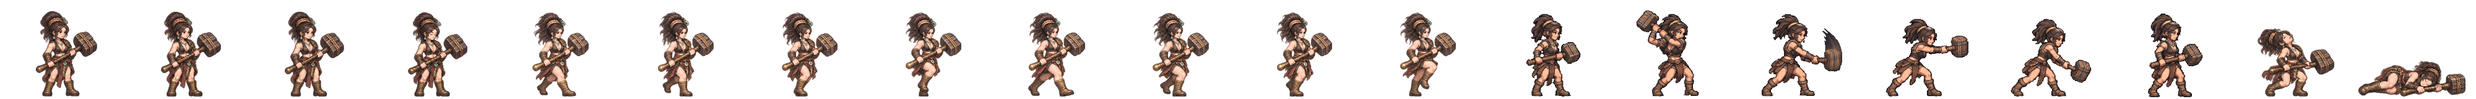
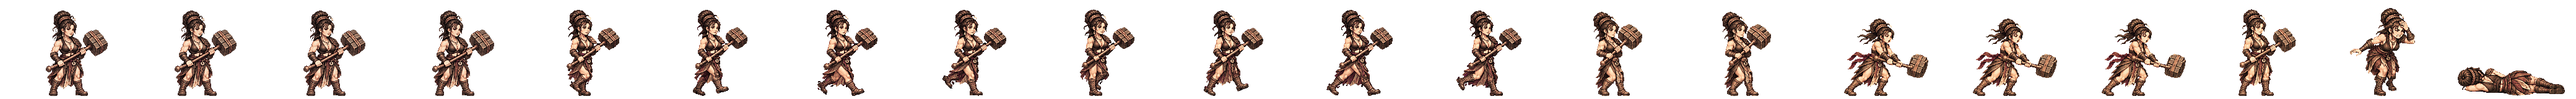
쇠비 전투 띠를 새 방식으로: 서기·걷기·큰 쇠망치 내려찍기 여덟 칸·머리 장식 고치기·쓰러짐·맞음 (Codex 그림 · 눈 검수와 독립 검수) · 옛 2배 그림 연결 지움
Claude-Session: https://claude.ai/code/session_01TRiuN7s6aDfSnaHxrkctmU

Changed region(s): [[0.0, 0.0938, 1.0, 0.9688]]

diff --git a/src/realm/data/spritePx.ts b/src/realm/data/spritePx.ts
@@ -1,3 +1,3 @@
 /** public/realm/anim-px/manifest.json 의 사본 — tools/sprite-normalize.mjs 가 만든다 (손으로 고치지 말 것). 칸 [가로, 세로] · feet = 발 줄(칸 위에서 y) · bodyPx = 서 있는 몸 키 */
 import { expandManifest } from './sprite-manifest.ts'
-export const SPRITE_PX: Readonly<Record<string, { readonly cell: readonly [number, number]; readonly feet: number; readonly bodyPx: number; readonly kind: 'general' | 'soldier' | 'folk' | 'crowd'; readonly cells: number }>> = expandManifest<{ readonly cell: readonly [number, number]; readonly feet: number; readonly bodyPx: number; readonly kind: 'general' | 'soldier' | 'folk' | 'crowd'; readonly cells: number }>([{"cell":[166,128],"feet":126,"bodyPx":124,"kind":"soldier","cells":20},{"cell":[116,128],"feet":126,"bodyPx":117,"kind":"soldier","cells":20},{"cell":[127,128],"feet":126,"bodyPx":116,"kind":"soldier","cells":20},{"cell":[269,128],"feet":126,"bodyPx":126,"kind":"soldier","cells":20},{"cell":[503,128],"feet":126,"bodyPx":127,"kind":"soldier","cells":20},{"cell":[614,128],"feet":126,"bodyPx":126,"kind":"soldier","cells":20},{"cell":[200,160],"feet":156,"bodyPx":138,"kind":"general","cells":20},{"cell":[208,160],"feet":155,"bodyPx":138,"kind":"general","cells":20},{"cell":[208,160],"feet":154,"bodyPx":138,"kind":"general","cells":20},{"cell":[304,160],"feet":155,"bodyPx":135,"kind":"general","cells":20},{"cell":[184,160],"feet":156,"bodyPx":138,"kind":"general","cells":20},{"cell":[208,160],"feet":154,"bodyPx":136,"kind":"general","cells":20},{"cell":[232,160],"feet":156,"bodyPx":138,"kind":"general","cells":20},{"cell":[208,160],"feet":156,"bodyPx":138,"kind":"general","cells":20},{"cell":[168,160],"feet":156,"bodyPx":124,"kind":"general","cells":20},{"cell":[216,160],"feet":156,"bodyPx":130,"kind":"general","cells":20},{"cell":[200,160],"feet":156,"bodyPx":116,"kind":"general","cells":20},{"cell":[192,160],"feet":156,"bodyPx":138,"kind":"general","cells":20},{"cell":[208,160],"feet":154,"bodyPx":135,"kind":"general","cells":20},{"cell":[280,160],"feet":156,"bodyPx":138,"kind":"general","cells":20},{"cell":[232,160],"feet":156,"bodyPx":134,"kind":"general","cells":20},{"cell":[144,160],"feet":156,"bodyPx":70,"kind":"general","cells":20},{"cell":[208,160],"feet":156,"bodyPx":70,"kind":"general","cells":20},{"cell":[192,160],"feet":156,"bodyPx":70,"kind":"general","cells":20},{"cell":[240,160],"feet":155,"bodyPx":138,"kind":"general","cells":20},{"cell":[192,160],"feet":156,"bodyPx":128,"kind":"general","cells":20},{"cell":[224,160],"feet":155,"bodyPx":138,"kind":"general","cells":20},{"cell":[208,160],"feet":154,"bodyPx":137,"kind":"general","cells":20},{"cell":[216,160],"feet":156,"bodyPx":138,"kind":"general","cells":20},{"cell":[208,160],"feet":156,"bodyPx":134,"kind":"general","cells":20},{"cell":[208,160],"feet":154,"bodyPx":130,"kind":"general","cells":20},{"cell":[248,160],"feet":156,"bodyPx":138,"kind":"general","cells":20},{"cell":[248,160],"feet":155,"bodyPx":138,"kind":"general","cells":20},{"cell":[192,160],"feet":155,"bodyPx":138,"kind":"general","cells":20},{"cell":[192,160],"feet":156,"bodyPx":124,"kind":"general","cells":20},{"cell":[208,160],"feet":154,"bodyPx":131,"kind":"general","cells":20},{"cell":[256,160],"feet":156,"bodyPx":138,"kind":"general","cells":20},{"cell":[240,160],"feet":156,"bodyPx":138,"kind":"general","cells":20},{"cell":[232,160],"feet":156,"bodyPx":73,"kind":"general","cells":20},{"cell":[224,160],"feet":156,"bodyPx":138,"kind":"general","cells":20},{"cell":[224,160],"feet":156,"bodyPx":128,"kind":"general","cells":20},{"cell":[176,160],"feet":156,"bodyPx":129,"kind":"general","cells":20},{"cell":[208,160],"feet":154,"bodyPx":139,"kind":"general","cells":20},{"cell":[232,160],"feet":155,"bodyPx":138,"kind":"general","cells":20},{"cell":[208,160],"feet":156,"bodyPx":132,"kind":"general","cells":20},{"cell":[184,160],"feet":156,"bodyPx":122,"kind":"general","cells":20},{"cell":[280,160],"feet":155,"bodyPx":133,"kind":"general","cells":20},{"cell":[176,160],"feet":156,"bodyPx":70,"kind":"general","cells":20},{"cell":[186,128],"feet":126,"bodyPx":127,"kind":"soldier","cells":20},{"cell":[298,128],"feet":126,"bodyPx":126,"kind":"soldier","cells":20},{"cell":[82,128],"feet":126,"bodyPx":114,"kind":"folk","cells":8},{"cell":[134,128],"feet":126,"bodyPx":119,"kind":"soldier","cells":20},{"cell":[380,128],"feet":126,"bodyPx":124,"kind":"soldier","cells":20},{"cell":[114,128],"feet":126,"bodyPx":115,"kind":"soldier","cells":20},{"cell":[122,128],"feet":126,"bodyPx":114,"kind":"soldier","cells":20},{"cell":[254,128],"feet":126,"bodyPx":128,"kind":"soldier","cells":20},{"cell":[438,128],"feet":126,"bodyPx":126,"kind":"soldier","cells":20},{"cell":[88,128],"feet":126,"bodyPx":113,"kind":"folk","cells":8},{"cell":[100,128],"feet":126,"bodyPx":115,"kind":"folk","cells":8},{"cell":[108,128],"feet":126,"bodyPx":115,"kind":"folk","cells":8},{"cell":[63,128],"feet":126,"bodyPx":113,"kind":"folk","cells":8},{"cell":[69,96],"feet":96,"bodyPx":96,"kind":"crowd","cells":1},{"cell":[54,96],"feet":96,"bodyPx":96,"kind":"crowd","cells":1},{"cell":[47,96],"feet":96,"bodyPx":96,"kind":"crowd","cells":1},{"cell":[49,96],"feet":96,"bodyPx":96,"kind":"crowd","cells":1},{"cell":[57,96],"feet":96,"bodyPx":96,"kind":"crowd","cells":1},{"cell":[55,96],"feet":96,"bodyPx":96,"kind":"crowd","cells":1},{"cell":[45,96],"feet":96,"bodyPx":96,"kind":"crowd","cells":1},{"cell":[53,96],"feet":96,"bodyPx":96,"kind":"crowd","cells":1},{"cell":[64,96],"feet":96,"bodyPx":96,"kind":"crowd","cells":1},{"cell":[264,160],"feet":156,"bodyPx":138,"kind":"general","cells":20},{"cell":[184,160],"feet":156,"bodyPx":124,"kind":"general","cells":20},{"cell":[208,160],"feet":154,"bodyPx":134,"kind":"general","cells":20},{"cell":[224,160],"feet":156,"bodyPx":133,"kind":"general","cells":20},{"cell":[184,160],"feet":156,"bodyPx":137,"kind":"general","cells":20},{"cell":[176,160],"feet":156,"bodyPx":130,"kind":"general","cells":20},{"cell":[216,160],"feet":156,"bodyPx":134,"kind":"general","cells":20},{"cell":[216,160],"feet":156,"bodyPx":132,"kind":"general","cells":20},{"cell":[288,160],"feet":156,"bodyPx":138,"kind":"general","cells":20},{"cell":[192,160],"feet":156,"bodyPx":118,"kind":"general","cells":20},{"cell":[208,160],"feet":154,"bodyPx":132,"kind":"general","cells":20},{"cell":[208,160],"feet":154,"bodyPx":128,"kind":"general","cells":20},{"cell":[240,160],"feet":156,"bodyPx":128,"kind":"general","cells":20},{"cell":[184,160],"feet":156,"bodyPx":132,"kind":"general","cells":20},{"cell":[208,160],"feet":156,"bodyPx":123,"kind":"general","cells":20},{"cell":[192,160],"feet":156,"bodyPx":135,"kind":"general","cells":20},{"cell":[176,160],"feet":156,"bodyPx":116,"kind":"general","cells":20},{"cell":[272,160],"feet":156,"bodyPx":138,"kind":"general","cells":20},{"cell":[176,160],"feet":156,"bodyPx":138,"kind":"general","cells":20},{"cell":[176,160],"feet":156,"bodyPx":122,"kind":"general","cells":20},{"cell":[232,160],"feet":156,"bodyPx":127,"kind":"general","cells":20},{"cell":[184,160],"feet":156,"bodyPx":134,"kind":"general","cells":20},{"cell":[168,160],"feet":156,"bodyPx":138,"kind":"general","cells":20},{"cell":[176,160],"feet":156,"bodyPx":137,"kind":"general","cells":20},{"cell":[184,160],"feet":156,"bodyPx":133,"kind":"general","cells":20}],[["axe",0],["bandit-chief",1],["bandit-club",2],["boat",3],["bow",4],["crossbow",5],["gen-adogan",6],["gen-alpyeong",7],["gen-ara",8],["gen-areum",8],["gen-aryeong",9],["gen-bakdal",8],["gen-baram",8],["gen-bdanbi",10],["gen-beom",11],["gen-beombal",8],["gen-beomi",8],["gen-bira",12],["gen-biryu",13],["gen-budeul",8],["gen-byeol",8],["gen-daemusin",14],["gen-daeso",15],["gen-dallae2",10],["gen-dalli",8],["gen-damul",16],["gen-danbi",8],["gen-dangung",17],["gen-darae",18],["gen-dokmudeom",8],["gen-duman",19],["gen-eomni",8],["gen-eureum",20],["gen-g-bow",21],["gen-g-spear",22],["gen-g-sword",23],["gen-gaennae",8],["gen-gamsil",24],["gen-gaon",18],["gen-geota",13],["gen-geumbawi",10],["gen-geumha",25],["gen-goeun",8],["gen-gom",26],["gen-gomok",13],["gen-gureum",8],["gen-guryema",17],["gen-gwaeyu",12],["gen-haebi",8],["gen-haedal",6],["gen-haesol",8],["gen-halla",27],["gen-heo",8],["gen-hneoul",10],["gen-hogong",28],["gen-hojin",13],["gen-horselord",29],["gen-hwalmi",30],["gen-hyeokgeose",17],["gen-hyeopbo",6],["gen-irang",8],["gen-jibaekho",31],["gen-jinha",32],["gen-jita",33],["gen-jumong",34],["gen-keundol",7],["gen-maehwa",35],["gen-maenun",17],["gen-malgalgi",36],["gen-mari",37],["gen-maro",31],["gen-maryeo",13],["gen-mdallae",8],["gen-mir",6],["gen-mount",38],["gen-mulbeom",27],["gen-mulsae",27],["gen-musoe",28],["gen-noeul",8],["gen-nuri",8],["gen-ocheongan",39],["gen-odi",8],["gen-odogan",6],["gen-ogan",17],["gen-oi",40],["gen-olddaeso",20],["gen-onjo",41],["gen-pidogan",13],["gen-sagong",42],["gen-sdallae",6],["gen-sincheongan",8],["gen-singwigan",28],["gen-sinneoul",8],["gen-sobeol",43],["gen-soebi",6],["gen-soebo",44],["gen-soenun",42],["gen-sogeumbi",27],["gen-songbi",39],["gen-songyang",45],["gen-sori",8],["gen-soseono",46],["gen-suro",17],["gen-tahae",6],["gen-tneoul",8],["gen-w-bow",21],["gen-w-spear",47],["gen-waechief",13],["gen-wan",28],["gen-yeodogan",13],["gen-yucheongan",8],["gen-yusugan",31],["horse",48],["marine",49],["migrant",50],["militia",51],["pike",52],["pirate-captain",53],["pirate-sword",54],["shield",55],["spear",56],["villager-builder",57],["villager-farmer",58],["villager-porter",59],["villager-woman",60],["crowd-b1",61],["crowd-b2",62],["crowd-b3",63],["crowd-b4",64],["crowd-b5",65],["crowd-b6",66],["crowd-f1",61],["crowd-f2",66],["crowd-f3",67],["crowd-f4",68],["crowd-f5",61],["crowd-f6",69],["gen-dalbit",13],["gen-base-g-07-drunk-warrior",17],["gen-base-g-40-anya-adan",13],["gen-base-w-13-young-archer",8],["gen-base-g-03-sea-trader",37],["gen-base-w-10-pirate-captain",42],["gen-base-w-64-miri-dallae",42],["gen-base-g-41-goja-bau",37],["gen-base-g-42-dokro-garam",70],["gen-base-g-09-farmer-conscript",28],["gen-base-w-02-goguryeo-lady",8],["gen-base-w-17-mahan-pearl-diver",8],["gen-base-g-17-saro-isageum",44],["gen-base-g-18-daegaya-king",71],["gen-base-g-35-dabeol-dalgu",13],["gen-base-g-19-sabeol-veteran",28],["gen-base-w-23-usisan-whale-queen",8],["gen-base-g-36-gammun-gamdol",39],["gen-base-g-20-samul-sea-lord",36],["gen-base-g-37-eumjeup-jeup",10],["gen-base-g-38-chopal-palmae",17],["gen-base-w-75-daegaya-soemoe",8],["gen-base-g-45-dabeol-deulgae",10],["gen-base-g-04-jinhan-giant",13],["gen-base-g-08-veteran",13],["gen-base-w-18-jinhan-salt-widow",8],["gen-base-w-12-court-dancer",72],["gen-base-w-83-gyeonji-beodeul",73],["gen-base-w-05-baekje-queen",18],["gen-base-w-21-baekje-court-dancer",10],["gen-base-g-01-master-smith",74],["gen-base-g-93-jomun-solgae",75],["gen-base-g-57-bihwa-neup",37],["gen-base-w-72-eumjeup-beol",8],["gen-base-w-102-garak-dana",42],["gen-base-g-68-baekje-onnuri",13],["gen-base-w-27-mokji-jinha",6],["gen-base-g-22-ungcheon-gomnae",6],["gen-base-g-23-sangdang-soedal",13],["gen-base-g-24-wansan-onsan",6],["gen-base-g-25-balla-keunmoe",28],["gen-base-g-61-heomcheuk-bawi",28],["gen-base-g-88-wander-soeul",39],["gen-base-w-14-feast-spy",8],["gen-base-g-12-silla-youth",76],["gen-base-w-08-mahan-warrior",8],["gen-base-g-62-beonye-hanul",37],["gen-base-g-63-heomcheuk-beogeum",13],["gen-base-g-84-wander-seoneul",13],["gen-base-w-50-siljik-mulga",28],["gen-base-g-46-uga-nureongso",28],["gen-base-w-80-usan-gangchi",42],["gen-base-g-47-guga-sanyanggae",28],["gen-base-w-76-gampyeong-baetsagong",8],["gen-base-g-05-mahan-chieftain",77],["gen-base-g-58-usan-uhae",13],["gen-base-g-27-maek-maekdol",13],["gen-base-w-53-hwanna-gabi",42],["gen-base-w-29-golpo-janmul",31],["gen-base-g-53-baekje-haeru",6],["gen-base-w-71-yeonna-neoul",8],["gen-base-w-79-yangmaek-solmae",8],["gen-base-w-34-chopal-deulme",8],["gen-base-g-44-maga-malgup",78],["gen-base-w-31-dabeol-dalbit",42],["gen-base-g-51-biryuna-mulgyeol",39],["gen-base-g-48-gwanna-musoe",13],["gen-base-g-32-uga-sodu",12],["gen-base-g-49-goguryeo-sona",79],["gen-base-g-30-gwanna-soemoe",39],["gen-base-g-52-tamna-oreum",10],["gen-base-g-29-yeonna-myeongsol",34],["gen-base-w-56-dongokjeo-sogeum",72],["gen-base-g-54-mokji-mahan",12],["gen-base-g-33-jeoga-metdol",17],["gen-base-w-36-baekje-maena",8],["gen-base-w-38-sangdang-bulmae",6],["gen-base-w-39-gosaburi-galmae",8],["gen-base-w-40-mujin-munui",80],["gen-base-w-41-hwanna-beodeul",81],["gen-base-w-43-uga-nuri",36],["gen-base-w-45-tamna-oreumbi",10],["gen-base-g-60-golbeol-golgae",10],["gen-base-g-61-apdok-ap",28],["gen-base-g-62-gammun-gamnamu",6],["gen-base-g-63-chopal-yeoul",31],["gen-base-g-64-michuhol-sogeumkkun",37],["gen-base-g-65-sangdang-soemangchi",39],["gen-base-g-66-geonma-malbalgup",82],["gen-base-g-67-gosaburi-buri",83],["gen-base-g-68-mujin-bitgoeul",10],["gen-base-g-69-goryong-yong",39],["gen-base-g-70-siljik-pado",37],["gen-base-w-81-byeokjin-byeolbit",8],["gen-base-w-46-geonma-maru",8],["gen-base-w-48-mujin-mudeung",8],["gen-base-g-26-gampyeong-gaetbeol",12],["gen-base-g-60-eupcha-hangyeol",84],["gen-base-g-15-shaman-man",28],["gen-base-g-85-wander-ure",31],["gen-base-g-43-hwanna-amnok",13],["gen-base-g-50-bullae-gwaha",85],["gen-base-g-55-saro-bakdal",13],["gen-base-g-56-haseulla-gwahama",6],["gen-base-w-06-buyeo-huntress",27],["gen-base-w-22-dongye-tiger-huntress",8],["gen-base-w-25-bihwa-priestess",8],["gen-base-w-24-apdok-queen",8],["gen-base-w-61-iseo-sinae",8],["gen-base-w-26-iseo-tomboy-general",8],["gen-base-g-59-yangmaek-maekson",86],["gen-aw1-haebi",39],["gen-aw1-soseono",87],["gen-aw1-gamsil",10],["gen-aw1-mir",88],["gen-aw1-dangung",6],["gen-aw1-ara",39],["gen-aw1-jumong",89],["gen-aw1-onjo",90],["gen-aw1-base-w-83-gyeonji-beodeul",17],["gen-aw1-heo",70],["gen-aw1-base-g-38-chopal-palmae",6],["gen-aw1-base-w-25-bihwa-priestess",91],["gen-aw1-sori",92],["gen-aw1-gomok",6],["gen-aw1-irang",17],["gen-aw1-budeul",92],["gen-aw1-gom",37],["gen-aw1-sdallae",6],["gen-aw1-base-w-13-young-archer",6],["gen-aw1-base-w-36-baekje-maena",93],["gen-aw1-base-g-09-farmer-conscript",70],["gen-aw1-base-w-02-goguryeo-lady",94],["gen-aw1-haedal",10],["gen-aw1-hogong",6],["gen-aw1-maehwa",88],["gen-aw1-base-w-06-buyeo-huntress",12],["gen-aw1-base-w-08-mahan-warrior",39],["gen-aw1-base-w-29-golpo-janmul",39],["gen-aw1-base-w-31-dabeol-dalbit",17],["gen-aw1-base-w-38-sangdang-bulmae",92],["gen-aw1-bira",28],["gen-aw1-base-w-53-hwanna-gabi",92],["gen-aw1-base-w-56-dongokjeo-sogeum",88],["gen-aw1-base-w-72-eumjeup-beol",17],["gen-aw1-bdanbi",92],["gen-aw1-beom",10],["gen-aw1-beombal",10],["gen-aw1-byeol",17],["gen-aw1-dalli",88],["gen-aw1-malgalgi",31],["gen-aw1-sincheongan",28]])
+export const SPRITE_PX: Readonly<Record<string, { readonly cell: readonly [number, number]; readonly feet: number; readonly bodyPx: number; readonly kind: 'general' | 'soldier' | 'folk' | 'crowd'; readonly cells: number }>> = expandManifest<{ readonly cell: readonly [number, number]; readonly feet: number; readonly bodyPx: number; readonly kind: 'general' | 'soldier' | 'folk' | 'crowd'; readonly cells: number }>([{"cell":[166,128],"feet":126,"bodyPx":124,"kind":"soldier","cells":20},{"cell":[116,128],"feet":126,"bodyPx":117,"kind":"soldier","cells":20},{"cell":[127,128],"feet":126,"bodyPx":116,"kind":"soldier","cells":20},{"cell":[269,128],"feet":126,"bodyPx":126,"kind":"soldier","cells":20},{"cell":[503,128],"feet":126,"bodyPx":127,"kind":"soldier","cells":20},{"cell":[614,128],"feet":126,"bodyPx":126,"kind":"soldier","cells":20},{"cell":[200,160],"feet":156,"bodyPx":138,"kind":"general","cells":20},{"cell":[208,160],"feet":155,"bodyPx":138,"kind":"general","cells":20},{"cell":[208,160],"feet":154,"bodyPx":138,"kind":"general","cells":20},{"cell":[304,160],"feet":155,"bodyPx":135,"kind":"general","cells":20},{"cell":[184,160],"feet":156,"bodyPx":138,"kind":"general","cells":20},{"cell":[208,160],"feet":154,"bodyPx":136,"kind":"general","cells":20},{"cell":[232,160],"feet":156,"bodyPx":138,"kind":"general","cells":20},{"cell":[208,160],"feet":156,"bodyPx":138,"kind":"general","cells":20},{"cell":[168,160],"feet":156,"bodyPx":124,"kind":"general","cells":20},{"cell":[216,160],"feet":156,"bodyPx":130,"kind":"general","cells":20},{"cell":[200,160],"feet":156,"bodyPx":116,"kind":"general","cells":20},{"cell":[192,160],"feet":156,"bodyPx":138,"kind":"general","cells":20},{"cell":[208,160],"feet":154,"bodyPx":135,"kind":"general","cells":20},{"cell":[280,160],"feet":156,"bodyPx":138,"kind":"general","cells":20},{"cell":[232,160],"feet":156,"bodyPx":134,"kind":"general","cells":20},{"cell":[144,160],"feet":156,"bodyPx":70,"kind":"general","cells":20},{"cell":[208,160],"feet":156,"bodyPx":70,"kind":"general","cells":20},{"cell":[192,160],"feet":156,"bodyPx":70,"kind":"general","cells":20},{"cell":[240,160],"feet":155,"bodyPx":138,"kind":"general","cells":20},{"cell":[192,160],"feet":156,"bodyPx":128,"kind":"general","cells":20},{"cell":[224,160],"feet":155,"bodyPx":138,"kind":"general","cells":20},{"cell":[208,160],"feet":154,"bodyPx":137,"kind":"general","cells":20},{"cell":[216,160],"feet":156,"bodyPx":138,"kind":"general","cells":20},{"cell":[208,160],"feet":156,"bodyPx":134,"kind":"general","cells":20},{"cell":[208,160],"feet":154,"bodyPx":130,"kind":"general","cells":20},{"cell":[248,160],"feet":156,"bodyPx":138,"kind":"general","cells":20},{"cell":[248,160],"feet":155,"bodyPx":138,"kind":"general","cells":20},{"cell":[192,160],"feet":155,"bodyPx":138,"kind":"general","cells":20},{"cell":[192,160],"feet":156,"bodyPx":124,"kind":"general","cells":20},{"cell":[208,160],"feet":154,"bodyPx":131,"kind":"general","cells":20},{"cell":[256,160],"feet":156,"bodyPx":138,"kind":"general","cells":20},{"cell":[240,160],"feet":156,"bodyPx":138,"kind":"general","cells":20},{"cell":[232,160],"feet":156,"bodyPx":73,"kind":"general","cells":20},{"cell":[224,160],"feet":156,"bodyPx":138,"kind":"general","cells":20},{"cell":[224,160],"feet":156,"bodyPx":128,"kind":"general","cells":20},{"cell":[176,160],"feet":156,"bodyPx":129,"kind":"general","cells":20},{"cell":[208,160],"feet":154,"bodyPx":139,"kind":"general","cells":20},{"cell":[232,160],"feet":155,"bodyPx":138,"kind":"general","cells":20},{"cell":[208,160],"feet":156,"bodyPx":132,"kind":"general","cells":20},{"cell":[184,160],"feet":156,"bodyPx":122,"kind":"general","cells":20},{"cell":[280,160],"feet":155,"bodyPx":133,"kind":"general","cells":20},{"cell":[176,160],"feet":156,"bodyPx":70,"kind":"general","cells":20},{"cell":[186,128],"feet":126,"bodyPx":127,"kind":"soldier","cells":20},{"cell":[298,128],"feet":126,"bodyPx":126,"kind":"soldier","cells":20},{"cell":[82,128],"feet":126,"bodyPx":114,"kind":"folk","cells":8},{"cell":[134,128],"feet":126,"bodyPx":119,"kind":"soldier","cells":20},{"cell":[380,128],"feet":126,"bodyPx":124,"kind":"soldier","cells":20},{"cell":[114,128],"feet":126,"bodyPx":115,"kind":"soldier","cells":20},{"cell":[122,128],"feet":126,"bodyPx":114,"kind":"soldier","cells":20},{"cell":[254,128],"feet":126,"bodyPx":128,"kind":"soldier","cells":20},{"cell":[438,128],"feet":126,"bodyPx":126,"kind":"soldier","cells":20},{"cell":[88,128],"feet":126,"bodyPx":113,"kind":"folk","cells":8},{"cell":[100,128],"feet":126,"bodyPx":115,"kind":"folk","cells":8},{"cell":[108,128],"feet":126,"bodyPx":115,"kind":"folk","cells":8},{"cell":[63,128],"feet":126,"bodyPx":113,"kind":"folk","cells":8},{"cell":[69,96],"feet":96,"bodyPx":96,"kind":"crowd","cells":1},{"cell":[54,96],"feet":96,"bodyPx":96,"kind":"crowd","cells":1},{"cell":[47,96],"feet":96,"bodyPx":96,"kind":"crowd","cells":1},{"cell":[49,96],"feet":96,"bodyPx":96,"kind":"crowd","cells":1},{"cell":[57,96],"feet":96,"bodyPx":96,"kind":"crowd","cells":1},{"cell":[55,96],"feet":96,"bodyPx":96,"kind":"crowd","cells":1},{"cell":[45,96],"feet":96,"bodyPx":96,"kind":"crowd","cells":1},{"cell":[53,96],"feet":96,"bodyPx":96,"kind":"crowd","cells":1},{"cell":[64,96],"feet":96,"bodyPx":96,"kind":"crowd","cells":1},{"cell":[264,160],"feet":156,"bodyPx":138,"kind":"general","cells":20},{"cell":[184,160],"feet":156,"bodyPx":124,"kind":"general","cells":20},{"cell":[208,160],"feet":154,"bodyPx":134,"kind":"general","cells":20},{"cell":[224,160],"feet":156,"bodyPx":133,"kind":"general","cells":20},{"cell":[184,160],"feet":156,"bodyPx":137,"kind":"general","cells":20},{"cell":[176,160],"feet":156,"bodyPx":130,"kind":"general","cells":20},{"cell":[216,160],"feet":156,"bodyPx":134,"kind":"general","cells":20},{"cell":[216,160],"feet":156,"bodyPx":132,"kind":"general","cells":20},{"cell":[288,160],"feet":156,"bodyPx":138,"kind":"general","cells":20},{"cell":[192,160],"feet":156,"bodyPx":118,"kind":"general","cells":20},{"cell":[208,160],"feet":154,"bodyPx":132,"kind":"general","cells":20},{"cell":[208,160],"feet":154,"bodyPx":128,"kind":"general","cells":20},{"cell":[240,160],"feet":156,"bodyPx":128,"kind":"general","cells":20},{"cell":[184,160],"feet":156,"bodyPx":132,"kind":"general","cells":20},{"cell":[208,160],"feet":156,"bodyPx":123,"kind":"general","cells":20},{"cell":[192,160],"feet":156,"bodyPx":135,"kind":"general","cells":20},{"cell":[176,160],"feet":156,"bodyPx":116,"kind":"general","cells":20},{"cell":[272,160],"feet":156,"bodyPx":138,"kind":"general","cells":20},{"cell":[176,160],"feet":156,"bodyPx":138,"kind":"general","cells":20},{"cell":[176,160],"feet":156,"bodyPx":122,"kind":"general","cells":20},{"cell":[232,160],"feet":156,"bodyPx":127,"kind":"general","cells":20},{"cell":[184,160],"feet":156,"bodyPx":134,"kind":"general","cells":20},{"cell":[168,160],"feet":156,"bodyPx":138,"kind":"general","cells":20},{"cell":[176,160],"feet":156,"bodyPx":137,"kind":"general","cells":20},{"cell":[184,160],"feet":156,"bodyPx":133,"kind":"general","cells":20}],[["axe",0],["bandit-chief",1],["bandit-club",2],["boat",3],["bow",4],["crossbow",5],["gen-adogan",6],["gen-alpyeong",7],["gen-ara",8],["gen-areum",8],["gen-aryeong",9],["gen-bakdal",8],["gen-baram",8],["gen-bdanbi",10],["gen-beom",11],["gen-beombal",8],["gen-beomi",8],["gen-bira",12],["gen-biryu",13],["gen-budeul",8],["gen-byeol",8],["gen-daemusin",14],["gen-daeso",15],["gen-dallae2",10],["gen-dalli",8],["gen-damul",16],["gen-danbi",8],["gen-dangung",17],["gen-darae",18],["gen-dokmudeom",8],["gen-duman",19],["gen-eomni",8],["gen-eureum",20],["gen-g-bow",21],["gen-g-spear",22],["gen-g-sword",23],["gen-gaennae",8],["gen-gamsil",24],["gen-gaon",18],["gen-geota",13],["gen-geumbawi",10],["gen-geumha",25],["gen-goeun",8],["gen-gom",26],["gen-gomok",13],["gen-gureum",8],["gen-guryema",17],["gen-gwaeyu",12],["gen-haebi",8],["gen-haedal",6],["gen-haesol",8],["gen-halla",27],["gen-heo",8],["gen-hneoul",10],["gen-hogong",28],["gen-hojin",13],["gen-horselord",29],["gen-hwalmi",30],["gen-hyeokgeose",17],["gen-hyeopbo",6],["gen-irang",8],["gen-jibaekho",31],["gen-jinha",32],["gen-jita",33],["gen-jumong",34],["gen-keundol",7],["gen-maehwa",35],["gen-maenun",17],["gen-malgalgi",36],["gen-mari",37],["gen-maro",31],["gen-maryeo",13],["gen-mdallae",8],["gen-mir",6],["gen-mount",38],["gen-mulbeom",27],["gen-mulsae",27],["gen-musoe",28],["gen-noeul",8],["gen-nuri",8],["gen-ocheongan",39],["gen-odi",8],["gen-odogan",6],["gen-ogan",17],["gen-oi",40],["gen-olddaeso",20],["gen-onjo",41],["gen-pidogan",13],["gen-sagong",42],["gen-sdallae",6],["gen-sincheongan",8],["gen-singwigan",28],["gen-sinneoul",8],["gen-sobeol",43],["gen-soebi",8],["gen-soebo",44],["gen-soenun",42],["gen-sogeumbi",27],["gen-songbi",39],["gen-songyang",45],["gen-sori",8],["gen-soseono",46],["gen-suro",17],["gen-tahae",6],["gen-tneoul",8],["gen-w-bow",21],["gen-w-spear",47],["gen-waechief",13],["gen-wan",28],["gen-yeodogan",13],["gen-yucheongan",8],["gen-yusugan",31],["horse",48],["marine",49],["migrant",50],["militia",51],["pike",52],["pirate-captain",53],["pirate-sword",54],["shield",55],["spear",56],["villager-builder",57],["villager-farmer",58],["villager-porter",59],["villager-woman",60],["crowd-b1",61],["crowd-b2",62],["crowd-b3",63],["crowd-b4",64],["crowd-b5",65],["crowd-b6",66],["crowd-f1",61],["crowd-f2",66],["crowd-f3",67],["crowd-f4",68],["crowd-f5",61],["crowd-f6",69],["gen-dalbit",13],["gen-base-g-07-drunk-warrior",17],["gen-base-g-40-anya-adan",13],["gen-base-w-13-young-archer",8],["gen-base-g-03-sea-trader",37],["gen-base-w-10-pirate-captain",42],["gen-base-w-64-miri-dallae",42],["gen-base-g-41-goja-bau",37],["gen-base-g-42-dokro-garam",70],["gen-base-g-09-farmer-conscript",28],["gen-base-w-02-goguryeo-lady",8],["gen-base-w-17-mahan-pearl-diver",8],["gen-base-g-17-saro-isageum",44],["gen-base-g-18-daegaya-king",71],["gen-base-g-35-dabeol-dalgu",13],["gen-base-g-19-sabeol-veteran",28],["gen-base-w-23-usisan-whale-queen",8],["gen-base-g-36-gammun-gamdol",39],["gen-base-g-20-samul-sea-lord",36],["gen-base-g-37-eumjeup-jeup",10],["gen-base-g-38-chopal-palmae",17],["gen-base-w-75-daegaya-soemoe",8],["gen-base-g-45-dabeol-deulgae",10],["gen-base-g-04-jinhan-giant",13],["gen-base-g-08-veteran",13],["gen-base-w-18-jinhan-salt-widow",8],["gen-base-w-12-court-dancer",72],["gen-base-w-83-gyeonji-beodeul",73],["gen-base-w-05-baekje-queen",18],["gen-base-w-21-baekje-court-dancer",10],["gen-base-g-01-master-smith",74],["gen-base-g-93-jomun-solgae",75],["gen-base-g-57-bihwa-neup",37],["gen-base-w-72-eumjeup-beol",8],["gen-base-w-102-garak-dana",42],["gen-base-g-68-baekje-onnuri",13],["gen-base-w-27-mokji-jinha",6],["gen-base-g-22-ungcheon-gomnae",6],["gen-base-g-23-sangdang-soedal",13],["gen-base-g-24-wansan-onsan",6],["gen-base-g-25-balla-keunmoe",28],["gen-base-g-61-heomcheuk-bawi",28],["gen-base-g-88-wander-soeul",39],["gen-base-w-14-feast-spy",8],["gen-base-g-12-silla-youth",76],["gen-base-w-08-mahan-warrior",8],["gen-base-g-62-beonye-hanul",37],["gen-base-g-63-heomcheuk-beogeum",13],["gen-base-g-84-wander-seoneul",13],["gen-base-w-50-siljik-mulga",28],["gen-base-g-46-uga-nureongso",28],["gen-base-w-80-usan-gangchi",42],["gen-base-g-47-guga-sanyanggae",28],["gen-base-w-76-gampyeong-baetsagong",8],["gen-base-g-05-mahan-chieftain",77],["gen-base-g-58-usan-uhae",13],["gen-base-g-27-maek-maekdol",13],["gen-base-w-53-hwanna-gabi",42],["gen-base-w-29-golpo-janmul",31],["gen-base-g-53-baekje-haeru",6],["gen-base-w-71-yeonna-neoul",8],["gen-base-w-79-yangmaek-solmae",8],["gen-base-w-34-chopal-deulme",8],["gen-base-g-44-maga-malgup",78],["gen-base-w-31-dabeol-dalbit",42],["gen-base-g-51-biryuna-mulgyeol",39],["gen-base-g-48-gwanna-musoe",13],["gen-base-g-32-uga-sodu",12],["gen-base-g-49-goguryeo-sona",79],["gen-base-g-30-gwanna-soemoe",39],["gen-base-g-52-tamna-oreum",10],["gen-base-g-29-yeonna-myeongsol",34],["gen-base-w-56-dongokjeo-sogeum",72],["gen-base-g-54-mokji-mahan",12],["gen-base-g-33-jeoga-metdol",17],["gen-base-w-36-baekje-maena",8],["gen-base-w-38-sangdang-bulmae",6],["gen-base-w-39-gosaburi-galmae",8],["gen-base-w-40-mujin-munui",80],["gen-base-w-41-hwanna-beodeul",81],["gen-base-w-43-uga-nuri",36],["gen-base-w-45-tamna-oreumbi",10],["gen-base-g-60-golbeol-golgae",10],["gen-base-g-61-apdok-ap",28],["gen-base-g-62-gammun-gamnamu",6],["gen-base-g-63-chopal-yeoul",31],["gen-base-g-64-michuhol-sogeumkkun",37],["gen-base-g-65-sangdang-soemangchi",39],["gen-base-g-66-geonma-malbalgup",82],["gen-base-g-67-gosaburi-buri",83],["gen-base-g-68-mujin-bitgoeul",10],["gen-base-g-69-goryong-yong",39],["gen-base-g-70-siljik-pado",37],["gen-base-w-81-byeokjin-byeolbit",8],["gen-base-w-46-geonma-maru",8],["gen-base-w-48-mujin-mudeung",8],["gen-base-g-26-gampyeong-gaetbeol",12],["gen-base-g-60-eupcha-hangyeol",84],["gen-base-g-15-shaman-man",28],["gen-base-g-85-wander-ure",31],["gen-base-g-43-hwanna-amnok",13],["gen-base-g-50-bullae-gwaha",85],["gen-base-g-55-saro-bakdal",13],["gen-base-g-56-haseulla-gwahama",6],["gen-base-w-06-buyeo-huntress",27],["gen-base-w-22-dongye-tiger-huntress",8],["gen-base-w-25-bihwa-priestess",8],["gen-base-w-24-apdok-queen",8],["gen-base-w-61-iseo-sinae",8],["gen-base-w-26-iseo-tomboy-general",8],["gen-base-g-59-yangmaek-maekson",86],["gen-aw1-haebi",39],["gen-aw1-soseono",87],["gen-aw1-gamsil",10],["gen-aw1-mir",88],["gen-aw1-dangung",6],["gen-aw1-ara",39],["gen-aw1-jumong",89],["gen-aw1-onjo",90],["gen-aw1-base-w-83-gyeonji-beodeul",17],["gen-aw1-heo",70],["gen-aw1-base-g-38-chopal-palmae",6],["gen-aw1-base-w-25-bihwa-priestess",91],["gen-aw1-sori",92],["gen-aw1-gomok",6],["gen-aw1-irang",17],["gen-aw1-budeul",92],["gen-aw1-gom",37],["gen-aw1-sdallae",6],["gen-aw1-base-w-13-young-archer",6],["gen-aw1-base-w-36-baekje-maena",93],["gen-aw1-base-g-09-farmer-conscript",70],["gen-aw1-base-w-02-goguryeo-lady",94],["gen-aw1-haedal",10],["gen-aw1-hogong",6],["gen-aw1-maehwa",88],["gen-aw1-base-w-06-buyeo-huntress",12],["gen-aw1-base-w-08-mahan-warrior",39],["gen-aw1-base-w-29-golpo-janmul",39],["gen-aw1-base-w-31-dabeol-dalbit",17],["gen-aw1-base-w-38-sangdang-bulmae",92],["gen-aw1-bira",28],["gen-aw1-base-w-53-hwanna-gabi",92],["gen-aw1-base-w-56-dongokjeo-sogeum",88],["gen-aw1-base-w-72-eumjeup-beol",17],["gen-aw1-bdanbi",92],["gen-aw1-beom",10],["gen-aw1-beombal",10],["gen-aw1-byeol",17],["gen-aw1-dalli",88],["gen-aw1-malgalgi",31],["gen-aw1-sincheongan",28]])

diff --git a/src/duel/view.ts b/src/duel/view.ts
@@ -100,7 +100,7 @@ const crowdFront = [1, 2, 3, 4, 5, 6].map((i) => img(`realm/duel/crowd/b${i}.png
 const crowdReady = (set: HTMLImageElement[]): boolean => set.every((im) => im.complete && im.naturalWidth > 0)
 const pxMode = cfg.px !== false && params.get('px') !== '0'
 /** 겨루기 전용 옛 띠(duel/sprites) 대신 열전과 같은 도트 띠(anim-px)를 쓰는 장수 — 두 판에서 같은 모습 · 서기 계획·쓰러지는 칸도 같다 (11-23 범 · 매화 · 달빛 · 11-24 해비 · 아룸) */
-const PX_DUEL: ReadonlySet<string> = new Set(['beom', 'maehwa', 'base-w-31-dabeol-dalbit', 'haebi', 'areum', 'base-w-13-young-archer', 'base-w-10-pirate-captain', 'base-w-17-mahan-pearl-diver', 'base-w-06-buyeo-huntress', 'base-w-64-miri-dallae', 'ara', 'base-w-22-dongye-tiger-huntress', 'noeul', 'sagong', 'sinneoul', 'heo', 'base-w-08-mahan-warrior', 'base-w-23-usisan-whale-queen', 'base-w-26-iseo-tomboy-general', 'base-w-72-eumjeup-beol', 'tneoul', 'odi', 'base-w-76-gampyeong-baetsagong', 'base-w-34-chopal-deulme', 'base-w-102-garak-dana', 'base-w-36-baekje-maena', 'base-w-56-dongokjeo-sogeum', 'budeul', 'base-w-53-hwanna-gabi', 'base-w-18-jinhan-salt-widow', 'beombal', 'irang', 'sogeumbi', 'baram', 'byeol', 'base-w-71-yeonna-neoul', 'base-w-39-gosaburi-galmae', 'base-w-41-hwanna-beodeul', 'base-w-79-yangmaek-solmae', 'base-w-46-geonma-maru', 'base-w-48-mujin-mudeung', 'base-w-80-usan-gangchi', 'base-w-81-byeokjin-byeolbit', 'beomi', 'danbi', 'dalli', 'gureum', 'haesol', 'soenun', 'eomni', 'mulbeom', 'mulsae', 'bakdal', 'darae', 'sori', 'base-w-12-court-dancer', 'hwalmi', 'gaennae', 'dokmudeom', 'base-w-14-feast-spy', 'base-w-25-bihwa-priestess', 'sincheongan', 'base-w-40-mujin-munui', 'halla', 'yucheongan', 'base-w-02-goguryeo-lady', 'gaon', 'base-w-24-apdok-queen', 'base-w-61-iseo-sinae', 'goeun', 'base-w-05-baekje-queen', 'mdallae', 'nuri', 'base-w-75-daegaya-soemoe'])
+const PX_DUEL: ReadonlySet<string> = new Set(['beom', 'maehwa', 'base-w-31-dabeol-dalbit', 'haebi', 'areum', 'base-w-13-young-archer', 'base-w-10-pirate-captain', 'base-w-17-mahan-pearl-diver', 'base-w-06-buyeo-huntress', 'base-w-64-miri-dallae', 'ara', 'base-w-22-dongye-tiger-huntress', 'noeul', 'sagong', 'sinneoul', 'heo', 'base-w-08-mahan-warrior', 'base-w-23-usisan-whale-queen', 'base-w-26-iseo-tomboy-general', 'base-w-72-eumjeup-beol', 'tneoul', 'odi', 'base-w-76-gampyeong-baetsagong', 'base-w-34-chopal-deulme', 'base-w-102-garak-dana', 'base-w-36-baekje-maena', 'base-w-56-dongokjeo-sogeum', 'budeul', 'base-w-53-hwanna-gabi', 'base-w-18-jinhan-salt-widow', 'beombal', 'irang', 'sogeumbi', 'baram', 'byeol', 'base-w-71-yeonna-neoul', 'base-w-39-gosaburi-galmae', 'base-w-41-hwanna-beodeul', 'base-w-79-yangmaek-solmae', 'base-w-46-geonma-maru', 'base-w-48-mujin-mudeung', 'base-w-80-usan-gangchi', 'base-w-81-byeokjin-byeolbit', 'beomi', 'danbi', 'dalli', 'gureum', 'haesol', 'soenun', 'eomni', 'mulbeom', 'mulsae', 'bakdal', 'darae', 'sori', 'base-w-12-court-dancer', 'hwalmi', 'gaennae', 'dokmudeom', 'base-w-14-feast-spy', 'base-w-25-bihwa-priestess', 'sincheongan', 'base-w-40-mujin-munui', 'halla', 'yucheongan', 'base-w-02-goguryeo-lady', 'gaon', 'base-w-24-apdok-queen', 'base-w-61-iseo-sinae', 'goeun', 'base-w-05-baekje-queen', 'mdallae', 'nuri', 'base-w-75-daegaya-soemoe', 'soebi'])
 /** 띠 그림 — 기본은 anim-px(도트 규격) 먼저, 없으면 옛 띠로 (img 의 onerror 가 갈아 끼운다) */
 const strip = (s: string): HTMLImageElement => pxMode
   ? DUEL_ATLASES[s] !== undefined && !PX_DUEL.has(s) ? img(`realm/duel/sprites/gen-${s}.png`, `realm/anim-px/gen-${s}.png`)

diff --git a/src/tune/params.ts b/src/tune/params.ts
@@ -1534,6 +1534,7 @@ export const HAEBI_IDLE = {
     mdallae: { cells: 38, base: [0, 1], hold: 2.4, fall: [18, 20, 21, 19], quirk: [22, 23, 24, 25], quirkTimes: [.3, .32, .4, .28], attack: { cells: [26, 27, 28, 29, 30, 31, 32, 33], times: [.09, .08, .11, .05, .15, .07, .08, .12], hit: 4 }, hurt: [34, 35], rise: [36, 37], xGeom: { h: 224, root: 92, foot: 216 } },
     nuri: { cells: 38, base: [0, 1], hold: 2.4, fall: [18, 20, 21, 19], quirk: [22, 23, 24, 25], quirkTimes: [.3, .32, .4, .28], attack: { cells: [26, 27, 28, 29, 30, 31, 32, 33], times: [.09, .08, .11, .05, .15, .07, .08, .12], hit: 4 }, hurt: [34, 35], rise: [36, 37], xGeom: { h: 224, root: 92, foot: 216 } },
     'base-w-75-daegaya-soemoe': { cells: 38, base: [0, 1], hold: 2.4, fall: [18, 20, 21, 19], quirk: [22, 23, 24, 25], quirkTimes: [.3, .32, .4, .28], attack: { cells: [26, 27, 28, 29, 30, 31, 32, 33], times: [.09, .08, .11, .05, .15, .07, .08, .12], hit: 4 }, hurt: [34, 35], rise: [36, 37], xGeom: { h: 224, root: 92, foot: 216 } },
+    soebi: { cells: 38, base: [0, 1], hold: 2.4, fall: [18, 20, 21, 19], quirk: [22, 23, 24, 25], quirkTimes: [.3, .32, .4, .28], attack: { cells: [26, 27, 28, 29, 30, 31, 32, 33], times: [.09, .08, .11, .05, .15, .07, .08, .12], hit: 4 }, hurt: [34, 35], rise: [36, 37], xGeom: { h: 224, root: 92, foot: 216 } },
   },
 } as const
 export const HAEBI_ANIM = {

diff --git a/src/raid/hero-hd.ts b/src/raid/hero-hd.ts
@@ -43,7 +43,6 @@ export const HERO_HD: Readonly<Record<string, string>> = {
   'anim-px/gen-aw1-dangung.png': 'anim-px/gen-aw1-dangung_hd.png',
   'anim-px/gen-aw1-onjo.png': 'anim-px/gen-aw1-onjo_hd.png',
   'anim-px/gen-onjo.png': 'anim-px/gen-onjo_hd.png',
-  'anim-px/gen-soebi.png': 'anim-px/gen-soebi_hd.png',
   'anim-px/gen-aw1-irang.png': 'anim-px/gen-aw1-irang_hd.png',
   'anim-px/gen-aw1-haedal.png': 'anim-px/gen-aw1-haedal_hd.png',
   'anim-px/gen-hojin.png': 'anim-px/gen-hojin_hd.png',

diff --git a/tools/sprite-kit/anim-harness.py b/tools/sprite-kit/anim-harness.py
@@ -115,6 +115,7 @@ HEROES = {
     'baekjeq': dict(hit=True, strip='gen-base-w-05-baekje-queen', atk='cast', actw=264, atk8=True, act=True, legacy=(('a', 1), ('b', 3), ('b', 3), ('b', 4))),   # 백제 왕비(향로 · hand · 가슴 L) · 주술 둘째 묶음(11-25 밤)
     'haebi': dict(hit=True, strip='gen-haebi', atk='chop', atk8=True, act=True),   # act = 공격 여덟 칸이 넓은 동작 칸(240×224 · 뿌리 92 · 발 줄 216)
     'soemoe': dict(hit=True, strip='gen-base-w-75-daegaya-soemoe', atk='chop', atk8=True, act=True),   # 대가야 쇠모(쇠망치 · 가슴 M · 우람) · 11-25 도끼·망치 묶음
+    'soebi': dict(hit=True, strip='gen-soebi', atk='chop', atk8=True, act=True, legacy=(('a', 1), ('b', 3), ('b', 3), ('b', 4))),   # 쇠비(큰 돌 쇠망치 · 가슴 L) · 11-25 도끼·망치 묶음
     'areum': dict(hit=True, strip='gen-areum', atk='slam', atk8=True, act=True, lock='none'),   # 받은 그림 그대로(얼굴을 떠다 붙이지 않는다 — 11-24: 뭉친 얼굴이 여덟 칸에 퍼졌다) · 옛 lock='face': 메가 머리 뒤로 지나간다 — 머리 상자는 메를 자르고(「포스터」), 윗몸을 통째로 묶으면 떠다닌다(11-24 형) → 얼굴 안쪽만 묶는다
 }
 
